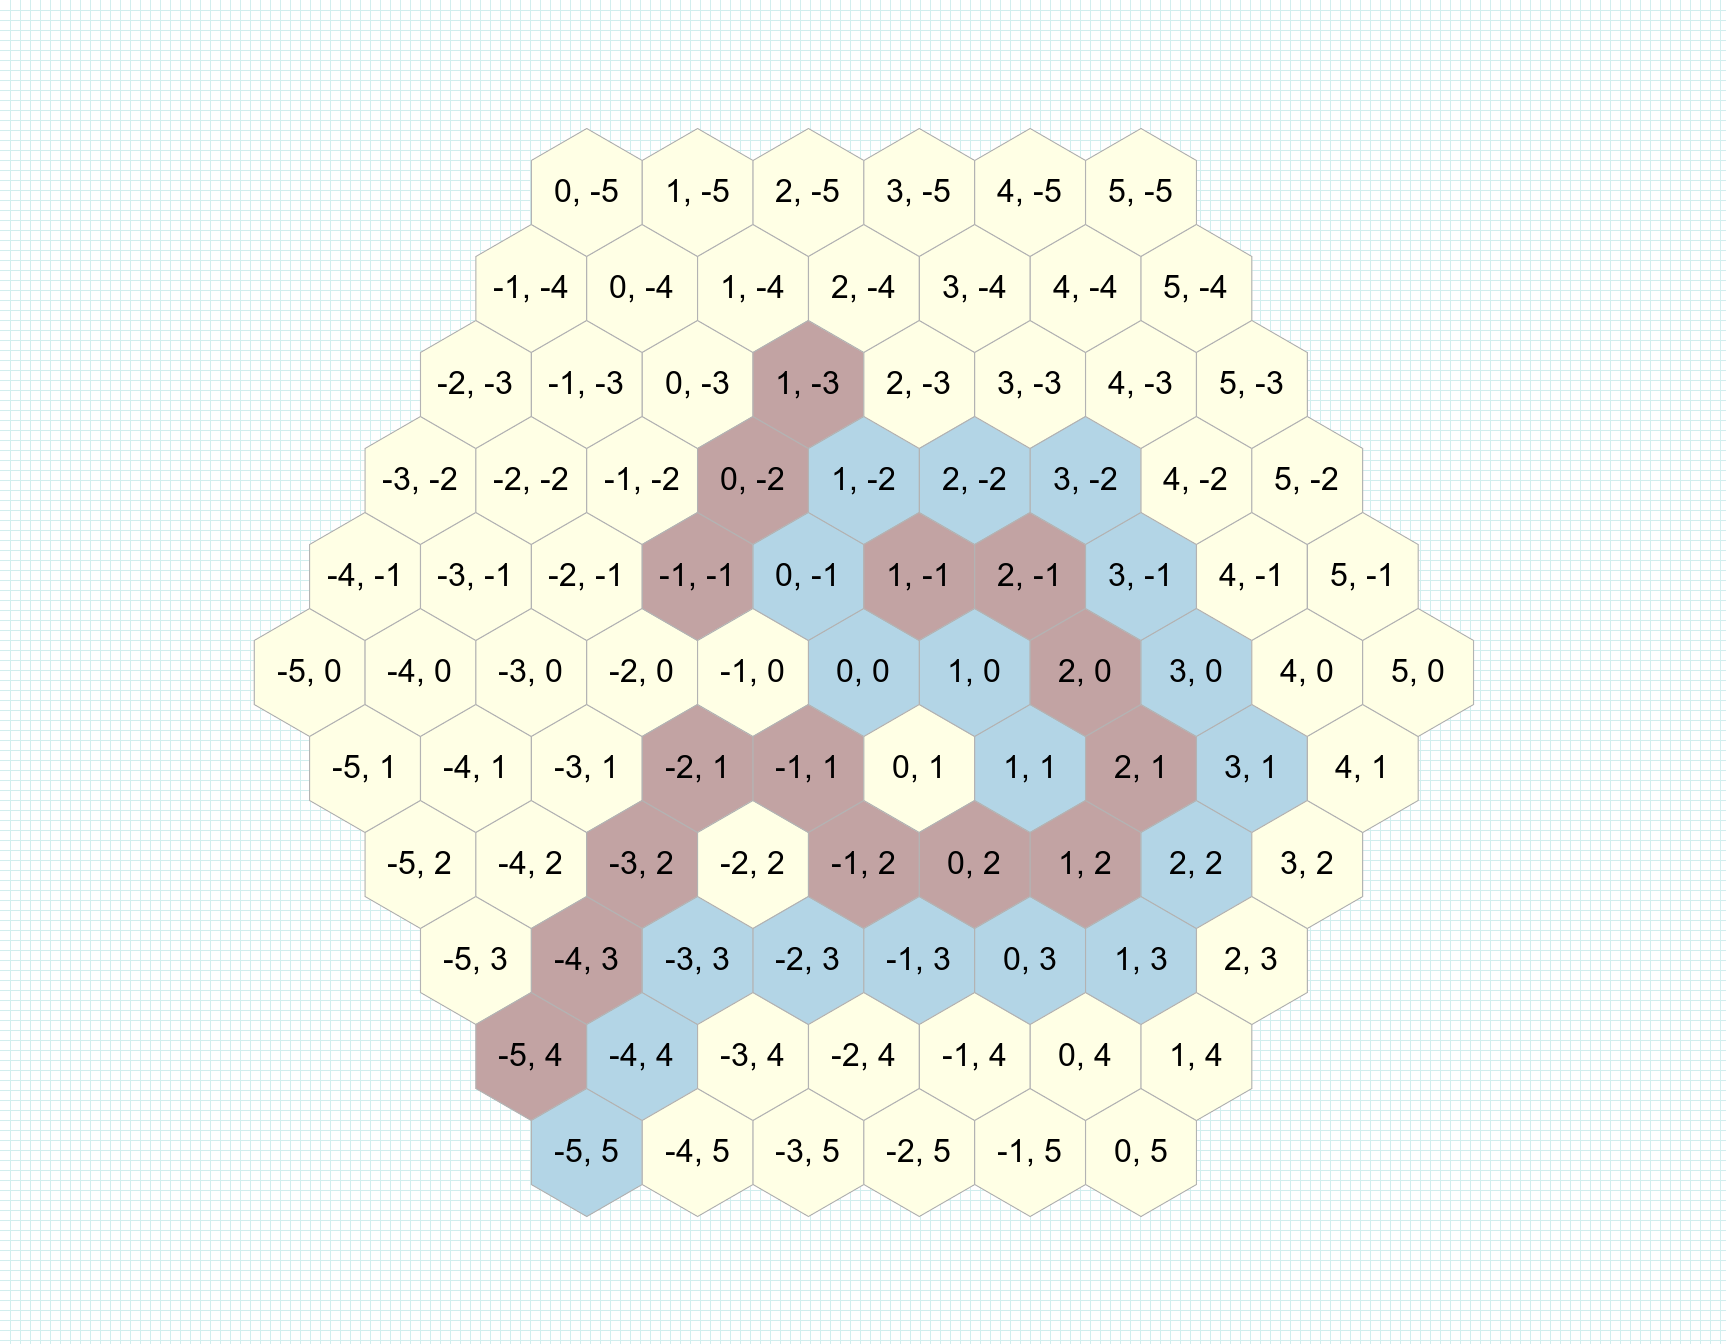
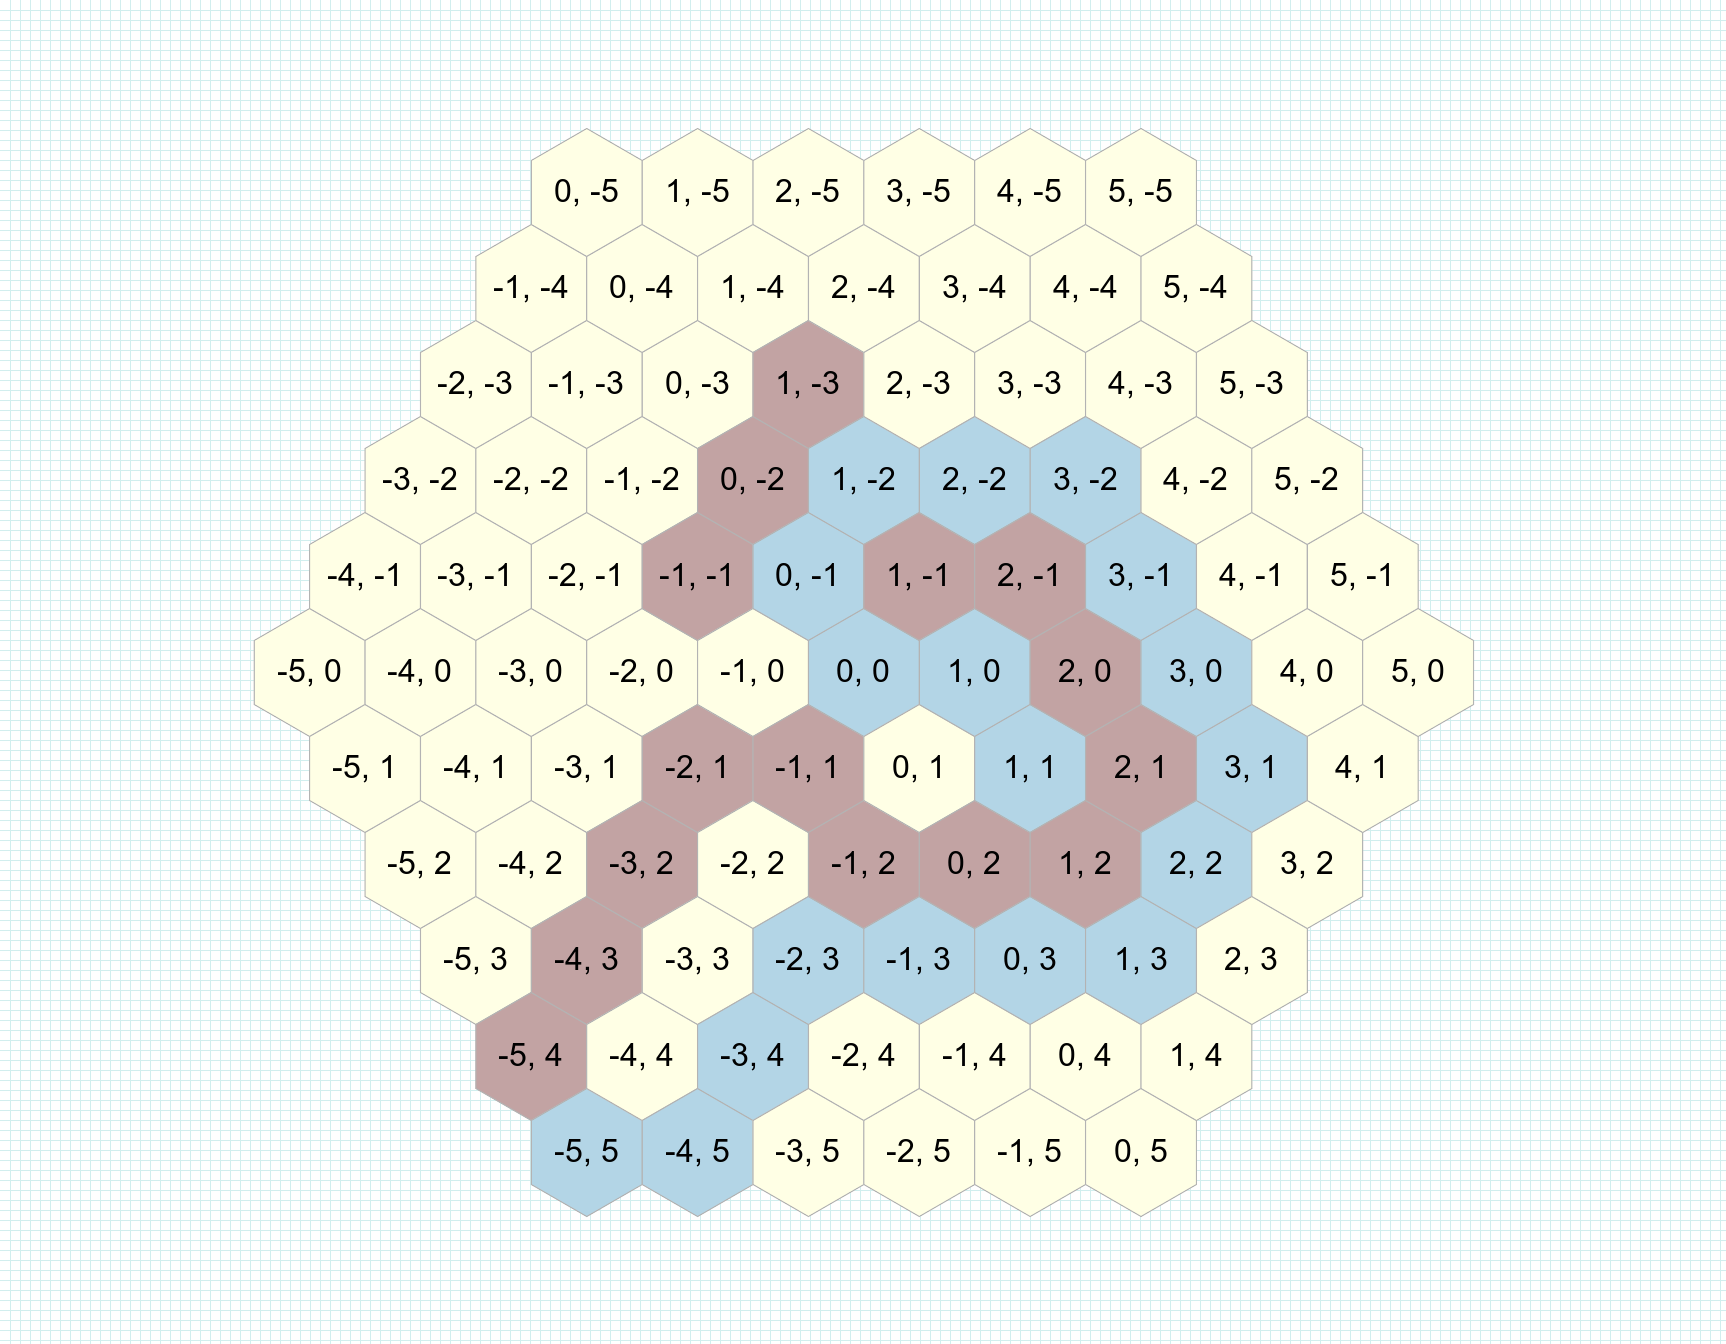
improve DijkstraShortestPath

Changed region(s): [[0.3378, 0.6562, 0.4913, 0.9062]]

diff --git a/lib/rhex/dijkstra_shortest_path.rb b/lib/rhex/dijkstra_shortest_path.rb
@@ -5,34 +5,33 @@ require 'rgl/dijkstra'
 
 module Rhex
   class DijkstraShortestPath
-    attr_reader :source, :target, :obstacles, :grid
-
     GridDoesNotContainSourceError = Class.new(StandardError)
     GridDoesNotContainTargetError = Class.new(StandardError)
 
     EDGE_WEIGHTS_MAP = Hash.new(1)
     private_constant :EDGE_WEIGHTS_MAP
 
-    def initialize(source, target, grid, obstacles: [])
-      @source = source
-      @target = target
+    def initialize(grid, obstacles: [])
       @grid = grid
       @obstacles = obstacles
+      @graph = build_graph(RGL::AdjacencyGraph.new)
     end
 
-    def call
+    attr_reader :graph
+
+    def call(source, target, edge_weights_map = EDGE_WEIGHTS_MAP)
       raise GridDoesNotContainSourceError unless grid.include?(source)
       raise GridDoesNotContainTargetError unless grid.include?(target)
 
-      graph = build_graph(RGL::AdjacencyGraph.new)
-
-      graph.dijkstra_shortest_path(EDGE_WEIGHTS_MAP, source, target)
+      graph.dijkstra_shortest_path(edge_weights_map, source, target)
     end
 
     private
 
+    attr_reader :grid, :obstacles
+
     def build_graph(graph)
-      frontiers = [source]
+      frontiers = grid.to_a - obstacles
 
       until frontiers.empty?
         current = frontiers.pop
@@ -40,7 +39,6 @@ module Rhex
           next if (graph.has_vertex?(neighbor) && graph.has_edge?(neighbor, current)) || obstacles.include?(neighbor)
 
           graph.add_edge(neighbor, current)
-          frontiers.push(neighbor)
         end
       end
 

diff --git a/spec/lib/rhex/dijkstra_shortest_path_spec.rb b/spec/lib/rhex/dijkstra_shortest_path_spec.rb
@@ -12,7 +12,7 @@ RSpec.describe Rhex::DijkstraShortestPath do
       source = Rhex::AxialHex.new(0, 2)
       target = Rhex::AxialHex.new(0, -2)
 
-      shortest_path = described_class.new(source, target, grid).call
+      shortest_path = described_class.new(grid).call(source, target)
 
       expect(shortest_path)
         .to contain_exactly(
@@ -42,12 +42,12 @@ RSpec.describe Rhex::DijkstraShortestPath do
                             [-2, 1], [-1, -1], [0, -2], [1, -3], [-3, 2], [-4, 3], [-5, 4]
                           ], image_config: Rhex::ImageConfigs.obstacle_image_config)
 
-        shortest_path = described_class.new(source, target, grid, obstacles: obstacles).call
+        shortest_path = described_class.new(grid, obstacles: obstacles).call(source, target)
 
         expected_shortest_path =
           coords_to_hexes([
                             [1, 1], [1, 0], [0, 0], [0, -1], [1, -2], [2, -2], [3, -2], [3, -1], [3, 0],
-                            [3, 1], [2, 2], [1, 3], [0, 3], [-1, 3], [-2, 3], [-3, 3], [-4, 4], [-5, 5]
+                            [3, 1], [2, 2], [1, 3], [0, 3], [-1, 3], [-2, 3], [-3, 4], [-4, 5], [-5, 5]
                           ], image_config: Rhex::ImageConfigs.path_image_config)
 
         grid.merge(obstacles)

diff --git a/spec/lib/rhex/cube_hex_spec.rb b/spec/lib/rhex/cube_hex_spec.rb
@@ -173,10 +173,11 @@ RSpec.describe Rhex::CubeHex do
       obstacles = instance_double(Array)
 
       shortest_path = double
-      dijkstra_shortest_path_instance = double(call: shortest_path)
+      dijkstra_shortest_path_instance = double
 
       expect(Rhex::DijkstraShortestPath)
-        .to receive(:new).with(source, target, grid, obstacles: obstacles).and_return(dijkstra_shortest_path_instance)
+        .to receive(:new).with(grid, obstacles: obstacles).and_return(dijkstra_shortest_path_instance)
+      expect(dijkstra_shortest_path_instance).to receive(:call).with(source, target).and_return(shortest_path)
 
       expect(source.dijkstra_shortest_path(target, grid, obstacles: obstacles)).to eq(shortest_path)
     end

diff --git a/lib/rhex/cube_hex.rb b/lib/rhex/cube_hex.rb
@@ -114,7 +114,7 @@ module Rhex
     end
 
     def dijkstra_shortest_path(target, grid, obstacles: [])
-      DijkstraShortestPath.new(self, target, grid, obstacles: obstacles).call
+      Rhex::DijkstraShortestPath.new(grid, obstacles: obstacles).call(self, target)
     end
 
     def distance(hex)
